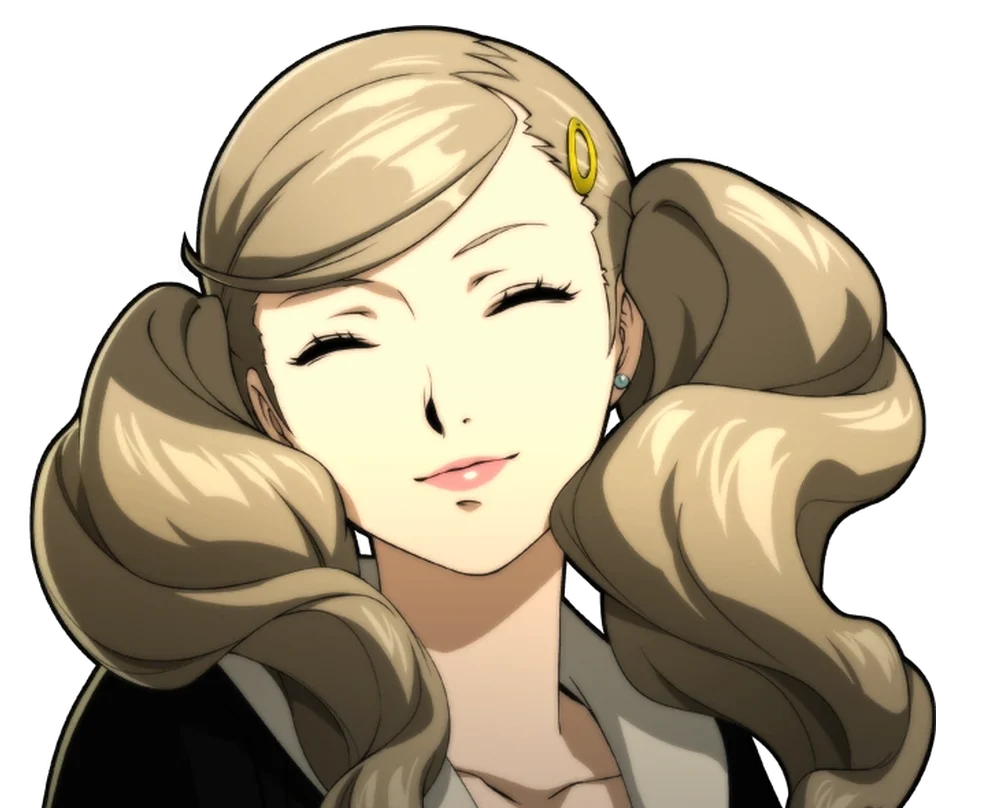
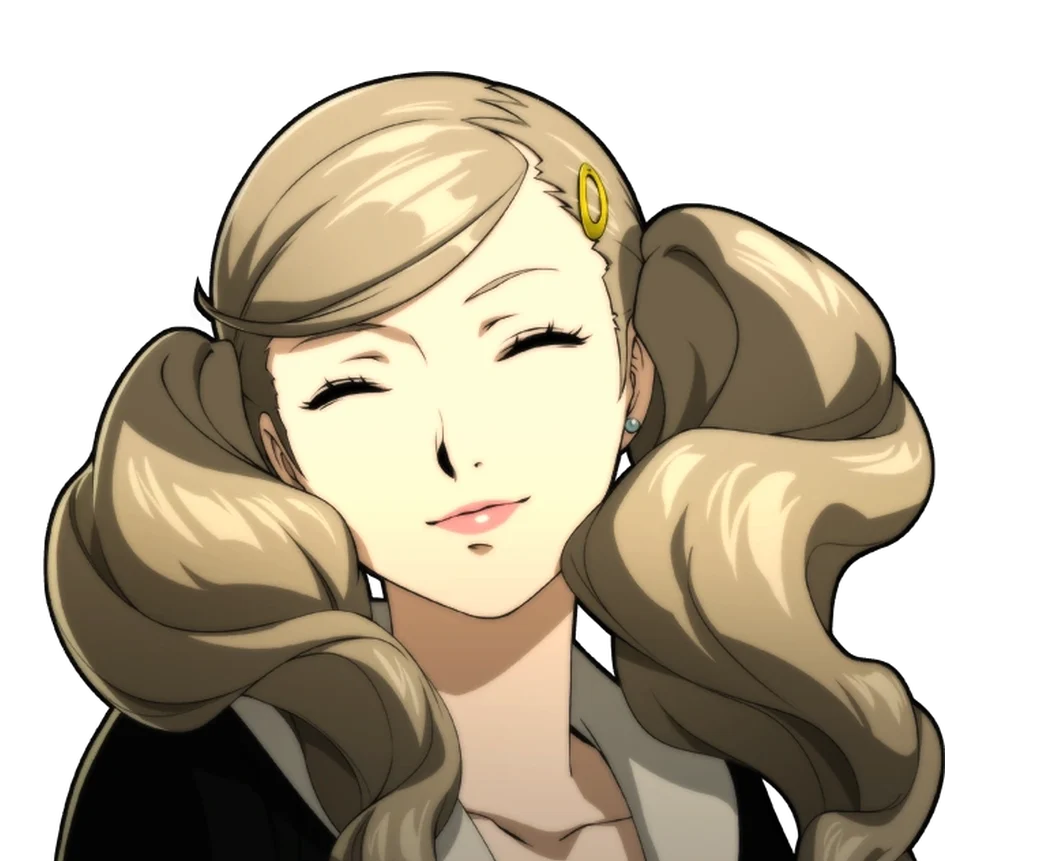
FEMC portraits: sized by height at their natural shape so no one's head runs off the top; faces line up across expressions

diff --git a/femc-social.js b/femc-social.js
@@ -120,7 +120,7 @@ window.FemcSocial = (() => {
     /* P3R layout: the speaker stands on the left, cut off by the bottom edge; the dialogue box sits to the right and points at them. */
     /* Every portrait is sized by height (times its --ps from portraits/scale.js) and wide art is trimmed at the sides,
        so faces come out the same size whatever shape the source image is. */
-    .vn-portrait { position: absolute; left: max(1vw, 8px); bottom: 0; height: calc(min(88vh, 940px) * var(--ps, 1)); width: calc(min(40vw, 760px) * var(--ps, 1)); max-width: none; object-fit: cover; object-position: center bottom; filter: drop-shadow(10px 0 0 rgba(255, 79, 158, .35)); -webkit-mask-image: linear-gradient(to right, #000 95%, transparent), linear-gradient(transparent, #000 4%); -webkit-mask-composite: source-in; mask-image: linear-gradient(to right, #000 95%, transparent), linear-gradient(transparent, #000 4%); mask-composite: intersect; transition: opacity .25s, transform .25s, filter .25s; }
+    .vn-portrait { position: absolute; left: max(1vw, 8px); bottom: 0; height: calc(min(80vh, 850px) * var(--ps, 1)); width: auto; max-width: calc(min(40vw, 760px) * var(--ps, 1)); object-fit: cover; object-position: center bottom; filter: drop-shadow(10px 0 0 rgba(255, 79, 158, .35)); -webkit-mask-image: linear-gradient(to right, #000 95%, transparent), linear-gradient(transparent, #000 4%); -webkit-mask-composite: source-in; mask-image: linear-gradient(to right, #000 95%, transparent), linear-gradient(transparent, #000 4%); mask-composite: intersect; transition: opacity .25s, transform .25s, filter .25s; }
     .vn-portrait.dim { filter: brightness(.55) drop-shadow(10px 0 0 rgba(255, 79, 158, .2)); }
     .vn-portrait.swap { opacity: 0; transform: translateX(-30px); }
     .vn-silhouette { position: absolute; left: 6vw; bottom: 0; width: min(46vw, 520px); height: min(76vh, 760px); background: linear-gradient(#000, #000) center bottom / 70% 52% no-repeat, radial-gradient(circle at 50% 30%, #000 0 22%, transparent 23%); opacity: .55; }
@@ -263,7 +263,7 @@ window.FemcSocial = (() => {
     @keyframes vn-reg { 0% { opacity: 0; transform: translate(-50%, -30px); } 10%, 85% { opacity: 1; transform: translate(-50%, 0); } 100% { opacity: 0; transform: translate(-50%, -20px); } }
     @media (max-width: 700px) {
       /* Phones: the bust rests on top of the dialogue box (fixed height, so it never bobs). */
-      .vn-portrait { left: 50%; transform: translateX(-50%); width: calc(min(96vw, 520px) * var(--ps, 1)); height: calc(min(54vh, calc(100vh - var(--boxh, 220px) - 4vh - 70px)) * var(--ps, 1)); bottom: calc(4vh + var(--boxh, 220px) - 6px); object-position: center bottom; }
+      .vn-portrait { left: 50%; transform: translateX(-50%); width: auto; max-width: calc(min(96vw, 520px) * var(--ps, 1)); height: calc(min(54vh, calc(100vh - var(--boxh, 220px) - 4vh - 70px)) * var(--ps, 1)); bottom: calc(4vh + var(--boxh, 220px) - 6px); object-position: center bottom; }
       .vn-portrait.swap { transform: translateX(-50%) translateY(20px); }
       .vn-box { left: 16px; right: 16px; }
       .vn-text { height: 10.5em; min-height: 0; overflow-y: auto; padding: 18px 18px 24px; }

diff --git a/social.html b/social.html
@@ -4,7 +4,7 @@
   <meta charset="utf-8">
   <meta name="viewport" content="width=device-width, initial-scale=1">
   <meta name="robots" content="noindex">
-  <script src="femc-mode.js?v=74"></script>
+  <script src="femc-mode.js?v=75"></script>
   <title>Social Links</title>
   <link rel="icon" href="assets/favicon.svg" type="image/svg+xml">
   <link rel="stylesheet" href="assets/femc/femc-pages.css?v=2">
@@ -106,7 +106,7 @@
   </main>
 
   <script src="achievements.js?v=12"></script>
-  <script src="femc-social.js?v=76"></script>
+  <script src="femc-social.js?v=77"></script>
   <script>
   (function () {
     const $ = id => document.getElementById(id);

diff --git a/femc-mode.js b/femc-mode.js
@@ -7,7 +7,7 @@
   const BASE = new URL('.', document.currentScript.src).href;
   // Cache-busting version for every FEMC data file and image under assets/femc/ (portraits, backgrounds, tarot,
   // profile art, link files, compendium, bgm). Bump it whenever any of them change; see MAINTENANCE.md.
-  const FEMC_ASSET_VERSION = 86;
+  const FEMC_ASSET_VERSION = 88;
   const KEY = 'kg-femc', SOUND = 'kg-femc-sound', BGM = 'kg-femc-bgm';
   const get = k => { try { return localStorage.getItem(k); } catch (e) { return null; } };
   const set = (k, v) => { try { v === null ? localStorage.removeItem(k) : localStorage.setItem(k, v); } catch (e) {} };

diff --git a/readers/reader-nav.js b/readers/reader-nav.js
@@ -229,7 +229,7 @@
   experienceScript.onload = () => window.initReaderExperience({ world, chapters, topbar, chLabel, chList, backHref, worldLabel, closeDrawer });
   document.body.appendChild(experienceScript);
   const femcScript = document.createElement('script');
-  femcScript.src = new URL('../femc-mode.js?v=74', scriptBase).href;
+  femcScript.src = new URL('../femc-mode.js?v=75', scriptBase).href;
   document.head.appendChild(femcScript);
 
   /* ─────────────────────────────────────────────────────────────

diff --git a/hoax-roll.html b/hoax-roll.html
@@ -5,7 +5,7 @@
   <meta name="viewport" content="width=device-width, initial-scale=1">
   <meta name="robots" content="noindex">
   <title>Camera Roll — solarkim</title>
-  <script src="femc-mode.js?v=74"></script>
+  <script src="femc-mode.js?v=75"></script>
   <link rel="icon" href="assets/favicon.svg" type="image/svg+xml">
   <style>
     :root { color-scheme: dark; --accent: #9d73ff; --ink: #f6f2ff; --muted: #a49cb8; --bg: #0b0a10; }

diff --git a/index.html b/index.html
@@ -5,7 +5,7 @@
   <meta name="viewport" content="width=device-width, initial-scale=1">
   <title>Katarina Grande</title>
   <script>if (location.hash === "#passport") location.replace("passport.html");</script>
-  <script src="femc-mode.js?v=74"></script>
+  <script src="femc-mode.js?v=75"></script>
   <link rel="icon" href="assets/favicon.svg" type="image/svg+xml">
   <link rel="stylesheet" href="styles.css?v=13">
 </head>

diff --git a/passport.html b/passport.html
@@ -4,7 +4,7 @@
   <meta charset="utf-8">
   <meta name="viewport" content="width=device-width, initial-scale=1">
   <title>Passport — Katarina Grande</title>
-  <script src="femc-mode.js?v=74"></script>
+  <script src="femc-mode.js?v=75"></script>
   <link rel="icon" href="assets/favicon.svg" type="image/svg+xml">
   <link rel="stylesheet" href="styles.css?v=13">
   <link rel="stylesheet" href="passport.css?v=2">

diff --git a/compendium.html b/compendium.html
@@ -4,7 +4,7 @@
   <meta charset="utf-8">
   <meta name="viewport" content="width=device-width, initial-scale=1">
   <meta name="robots" content="noindex">
-  <script src="femc-mode.js?v=74"></script>
+  <script src="femc-mode.js?v=75"></script>
   <title>Compendium</title>
   <link rel="icon" href="assets/favicon.svg" type="image/svg+xml">
   <link rel="stylesheet" href="assets/femc/femc-pages.css?v=1">

diff --git a/world.html b/world.html
@@ -4,7 +4,7 @@
   <meta charset="utf-8">
   <meta name="viewport" content="width=device-width, initial-scale=1">
   <title>My Works</title>
-  <script src="femc-mode.js?v=74"></script>
+  <script src="femc-mode.js?v=75"></script>
   <link rel="icon" href="assets/favicon.svg" type="image/svg+xml">
   <link rel="stylesheet" href="world.css?v=6">
   <link rel="stylesheet" href="world-entrances.css?v=17">

diff --git a/solchan.html b/solchan.html
@@ -5,7 +5,7 @@
   <meta name="viewport" content="width=device-width, initial-scale=1">
   <meta name="robots" content="noindex">
   <title>solchan — Katarina Grande</title>
-  <script src="femc-mode.js?v=74"></script>
+  <script src="femc-mode.js?v=75"></script>
   <link rel="icon" href="assets/favicon.svg" type="image/svg+xml">
   <link rel="stylesheet" href="styles.css?v=13">
   <style>

diff --git a/404.html b/404.html
@@ -5,7 +5,7 @@
   <meta name="viewport" content="width=device-width, initial-scale=1">
   <base href="/my-works-hub/">
   <title>World Not Found — Katarina Grande</title>
-  <script src="femc-mode.js?v=74"></script>
+  <script src="femc-mode.js?v=75"></script>
   <link rel="icon" href="assets/favicon.svg" type="image/svg+xml">
   <link rel="stylesheet" href="styles.css?v=13">
   <style>

diff --git a/vault.html b/vault.html
@@ -4,7 +4,7 @@
   <meta charset="utf-8">
   <meta name="viewport" content="width=device-width, initial-scale=1">
   <title>The Vault — Katarina Grande</title>
-  <script src="femc-mode.js?v=74"></script>
+  <script src="femc-mode.js?v=75"></script>
   <link rel="icon" href="assets/favicon.svg" type="image/svg+xml">
   <link rel="stylesheet" href="styles.css?v=13">
   <style>
